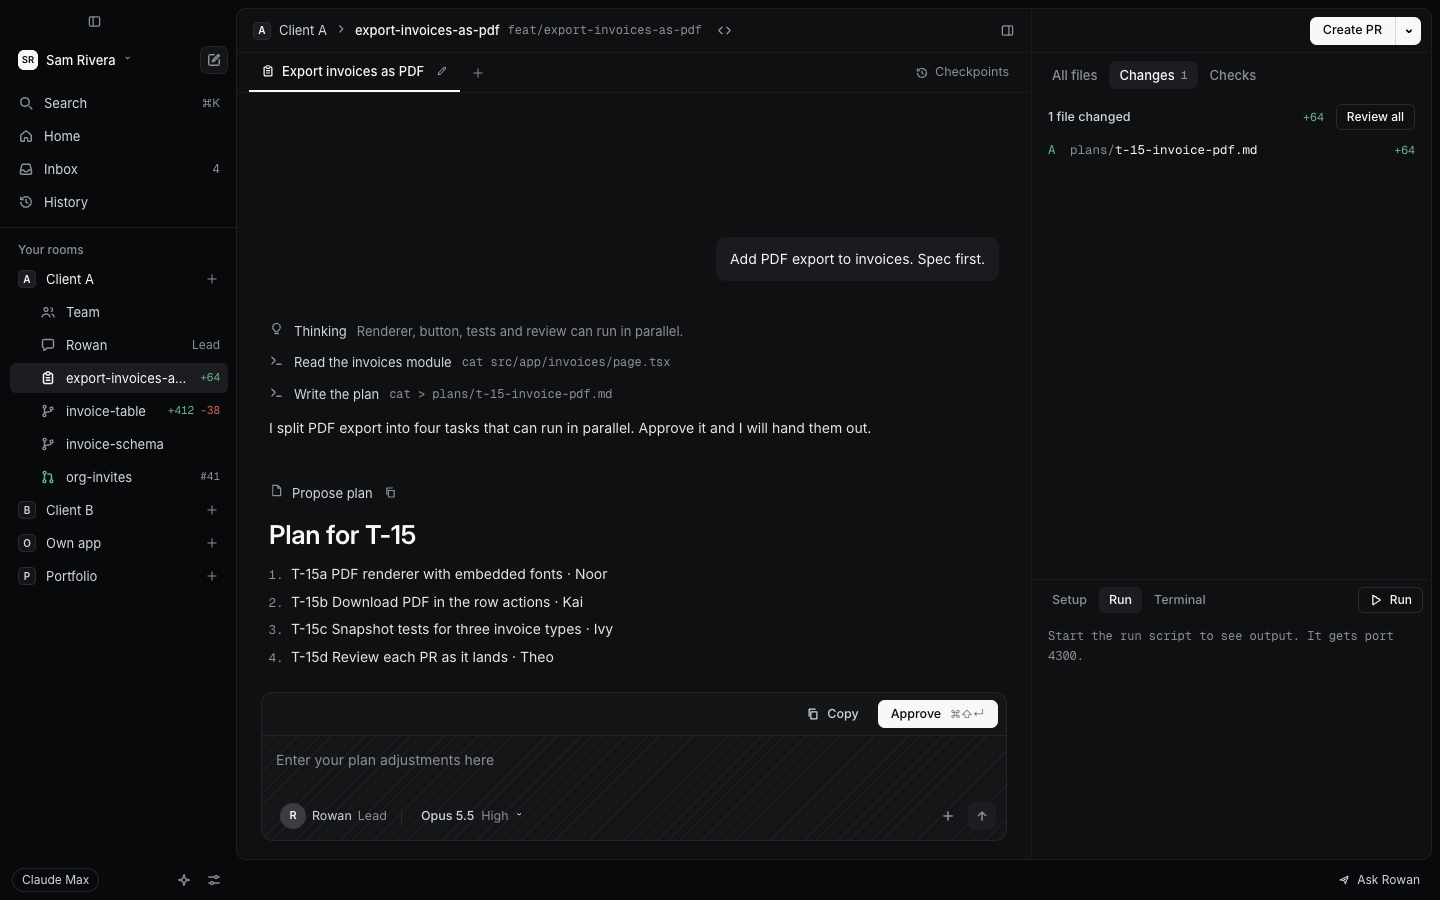
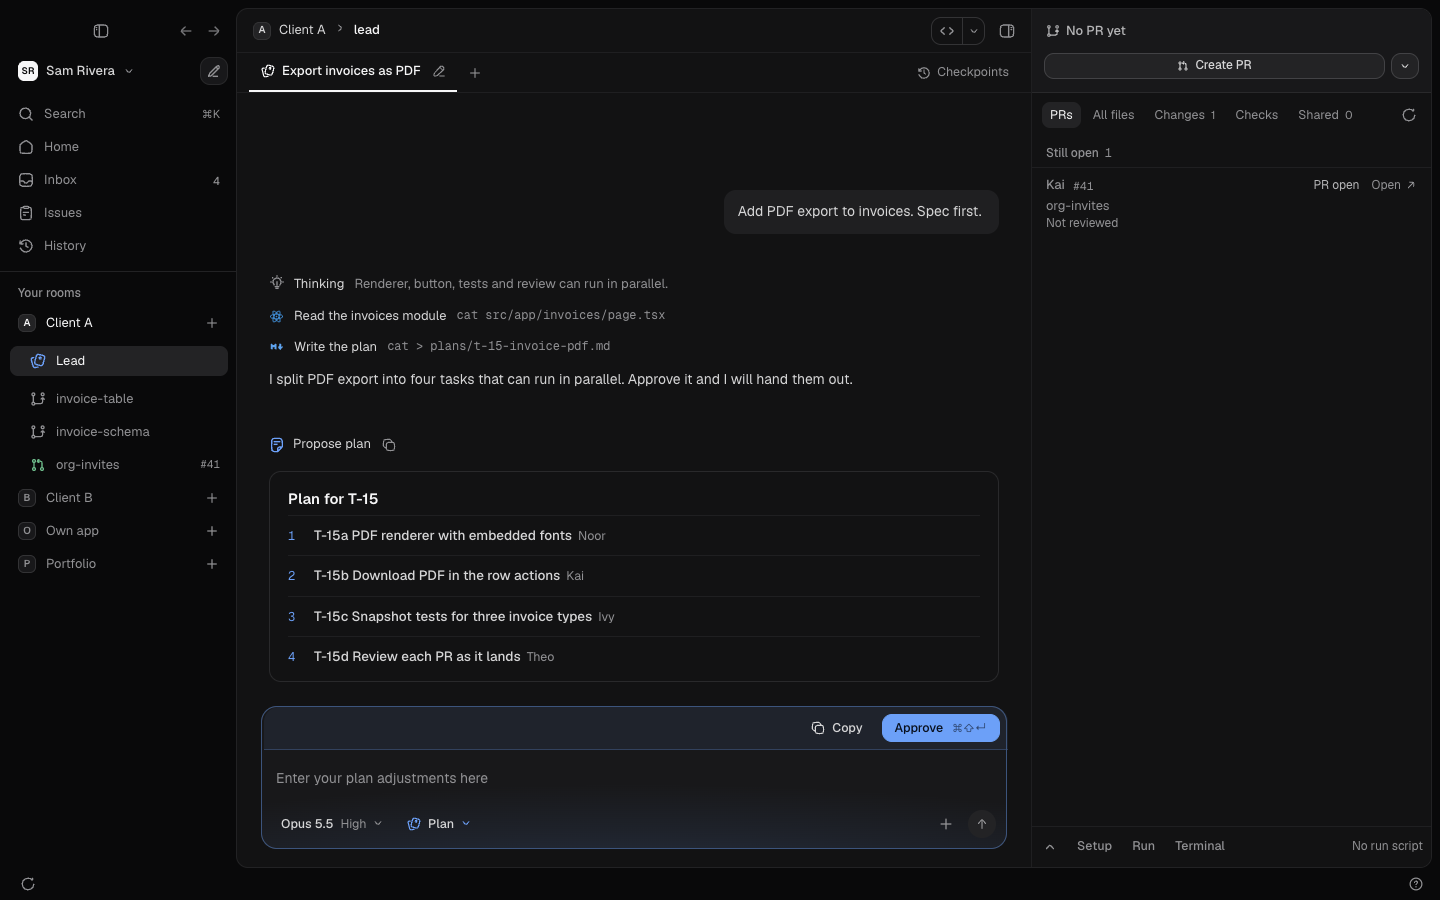
docs: README, DESIGN and the site reference say Kernel, and the team test reads kernel.md (KERNEL-698)

diff --git a/design/site/reference/landing.html b/design/site/reference/landing.html
@@ -60,7 +60,7 @@
   </div>
   <div class="shot shot-hero">
     <div class="shot-in">
-      <img src="../images/lead-plan.png" alt="Kernel: Rowan's plan for four tasks waits for review, with the room's team and workspaces in the sidebar" width="1280" height="800">
+      <img src="../images/lead-plan.png" alt="Kernel: Kernel's plan for four tasks waits for review, with the room's team and workspaces in the sidebar" width="1280" height="800">
     </div>
   </div>
 </section>
@@ -77,15 +77,15 @@
       <div class="step-vis" aria-hidden="true">
         <div class="mini mini-compose">
           <div class="mc-text">Add PDF export to invoices. Spec first.</div>
-          <div class="mc-row"><span class="chip">To Rowan · Lead</span><span class="grow"></span><span class="send"><svg width="14" height="14" viewBox="0 0 16 16" fill="none" stroke="#08090a" stroke-width="1.8" stroke-linecap="round" stroke-linejoin="round"><path d="M8 13V3.5M3.8 7.6 8 3.4l4.2 4.2"></path></svg></span></div>
+          <div class="mc-row"><span class="chip">To Kernel</span><span class="grow"></span><span class="send"><svg width="14" height="14" viewBox="0 0 16 16" fill="none" stroke="#08090a" stroke-width="1.8" stroke-linecap="round" stroke-linejoin="round"><path d="M8 13V3.5M3.8 7.6 8 3.4l4.2 4.2"></path></svg></span></div>
         </div>
       </div>
-      <div class="step-body"><span class="num">01</span><h3>Brief your lead</h3><p>Tell Rowan what to build in a sentence or two, from Rowan's chat or a new workspace.</p></div>
+      <div class="step-body"><span class="num">01</span><h3>Brief your lead</h3><p>Tell Kernel what to build in a sentence or two, from Kernel's chat or a new workspace.</p></div>
     </article>
     <article class="step">
       <div class="step-vis" aria-hidden="true">
         <div class="mini">
-          <div class="mp-title">Rowan's plan is ready</div>
+          <div class="mp-title">Kernel's plan is ready</div>
           <div class="mp-sub">T-15 · Export invoices as PDF</div>
           <div class="mp-rows">
             <span class="m">T-15a</span><span>PDF renderer</span><span class="d">Noor</span>

diff --git a/test/teamResolve.test.ts b/test/teamResolve.test.ts
@@ -109,10 +109,10 @@ describe('resolveTeam', () => {
     const dir = join(__dirname, '..', '.claude', 'agents')
     const files = readdirSync(dir).filter((f) => f.endsWith('.md')).map((f) => agentFromFile(join(dir, f), readFileSync(join(dir, f), 'utf8')))
     const r = await team(files)
-    // This repo's rowan.md customizes Kernel, which runs its prompt and tools (KERNEL-692).
-    const rowan = files.find((a) => a.id === 'rowan')!
-    expect(r.agents[0]).toMatchObject({ id: 'kernel-lead', name: 'Kernel', lead: true, builtIn: 'lead', prompt: rowan.prompt, tools: rowan.tools, file: rowan.file })
-    expect(r.agents.some((a) => a.id === 'rowan')).toBe(false)
+    // This repo's kernel.md customizes Kernel, which runs its prompt and tools (KERNEL-692).
+    const kernel = files.find((a) => a.id === 'kernel')!
+    expect(r.agents[0]).toMatchObject({ id: 'kernel-lead', name: 'Kernel', lead: true, builtIn: 'lead', prompt: kernel.prompt, tools: kernel.tools, file: kernel.file })
+    expect(r.agents.some((a) => a.id === 'kernel')).toBe(false)
     expect(r.agents.find((a) => a.id === 'theo')).toMatchObject({ reviewer: true, member: false })
     expect(r.agents.filter((a) => a.member).map((a) => a.id).sort()).toEqual(['ivy', 'kai', 'noor'])
   })

diff --git a/DESIGN.md b/DESIGN.md
@@ -145,9 +145,9 @@ A button that waits on the main process shows it is working until the call retur
   - Order. The row folds and fades from the frame the main panel swaps. It starts when Kernel marks the archive done, after any confirm, never before. A failed archive moves nothing and shows its "Could not archive" toast.
   - The row. Opacity goes 1 to 0 over 120ms while the row's height and the 3px gap under it close to 0 over 200ms. The row keeps its size and is clipped, never squeezed. Rows below slide up with the closing height and have no motion of their own, so the open chat's row rides up with them. A chat's nested workspace rows fold with it in the same frames, with no stagger. A folding row can't be clicked, and it leaves the list when the fold ends.
   - The screen (KERNEL-636). When the archived chat or workspace was on screen, the main panel swaps to the destination at once, in one frame, with no fade and no copy of the old screen. The destination is live from the first frame and takes focus and keys at once.
-  - Where it goes (KERNEL-596). One destination for every archive of the chat or workspace on screen: the room's front door, which is New chat with Rowan, or Team when the room has no Lead. It is the same for a chat, a workspace it started, a review and a workspace Kernel archives after its PR merged, and whatever else is open in the room. No chat row is picked, the app never goes to History, and the route moves once, in the step the archived status is stored, so no frame shows the workspace without its tabs. Kernel archiving after a merge keeps its toast. An archive by hand has none.
-  - Selected fill. When the destination has a row in the sidebar, its fill goes from none to `surface-3` and its text from `ink-2` to `ink` over 120ms, as the archived row fades out. That is Rowan's Lead row, which stands in for New chat with Rowan while the room has no open chat. In a room with open chats, no row stands for New chat, so no fill changes. This is the only selection change that fades. Other clicks still switch it at once.
-  - The last chat in a room. Rowan's Lead row opens in the chat row's place: height 0 to full over 200ms and opacity 0 to 1 over 120ms, as the chat row folds. The two heights add up to one row all the way through, so the rows below stay put. A room with no Lead has no row to open, and the rows below slide up.
+  - Where it goes (KERNEL-596). One destination for every archive of the chat or workspace on screen: the room's front door, which is New chat with Kernel, or Team when the room has no Lead. It is the same for a chat, a workspace it started, a review and a workspace Kernel archives after its PR merged, and whatever else is open in the room. No chat row is picked, the app never goes to History, and the route moves once, in the step the archived status is stored, so no frame shows the workspace without its tabs. Kernel archiving after a merge keeps its toast. An archive by hand has none.
+  - Selected fill. When the destination has a row in the sidebar, its fill goes from none to `surface-3` and its text from `ink-2` to `ink` over 120ms, as the archived row fades out. That is Kernel's Lead row, which stands in for New chat with Kernel while the room has no open chat. In a room with open chats, no row stands for New chat, so no fill changes. This is the only selection change that fades. Other clicks still switch it at once.
+  - The last chat in a room. Kernel's Lead row opens in the chat row's place: height 0 to full over 200ms and opacity 0 to 1 over 120ms, as the chat row folds. The two heights add up to one row all the way through, so the rows below stay put. A room with no Lead has no row to open, and the rows below slide up.
   - Not on screen. When the archived chat or workspace wasn't on screen, only its row folds. The screen doesn't move, and there is no toast (KERNEL-495).
   - Any archive. The same beat plays however the archive starts: the row's Archive button, a PR's Archive, closing a chat's last tab, or Kernel archiving after a merge.
   - Overlap. Archiving again while a fold runs starts that row's fold at once. The destination row's fill fade that starts over another one jumps the earlier one to its end.

diff --git a/README.md b/README.md
@@ -23,11 +23,11 @@ Each repo you add is a room, and every agent in the repo's `.claude/agents/` fol
 
 ![The team: each agent with its model, status and workspace](docs/images/team.png)
 
-### Rowan plans and hands off
+### Kernel plans and hands off
 
-Rowan is the Lead. Open Rowan's chat from the sidebar and brief Rowan in a sentence or two. Rowan works out a plan in plan mode and brings it to you. You approve it or ask for changes. Once you approve, Rowan creates one workspace per task and hands each one to the right teammate.
+Kernel is the Lead. Open Kernel's chat from the sidebar and brief Kernel in a sentence or two. Kernel works out a plan in plan mode and brings it to you. You approve it or ask for changes. Once you approve, Kernel creates one workspace per task and hands each one to the right teammate.
 
-![Rowan's plan for four tasks, waiting for approval in Rowan's chat](docs/images/lead-plan.png)
+![Kernel's plan for four tasks, waiting for approval in Kernel's chat](docs/images/lead-plan.png)
 
 ### Workspaces and pull requests
 
